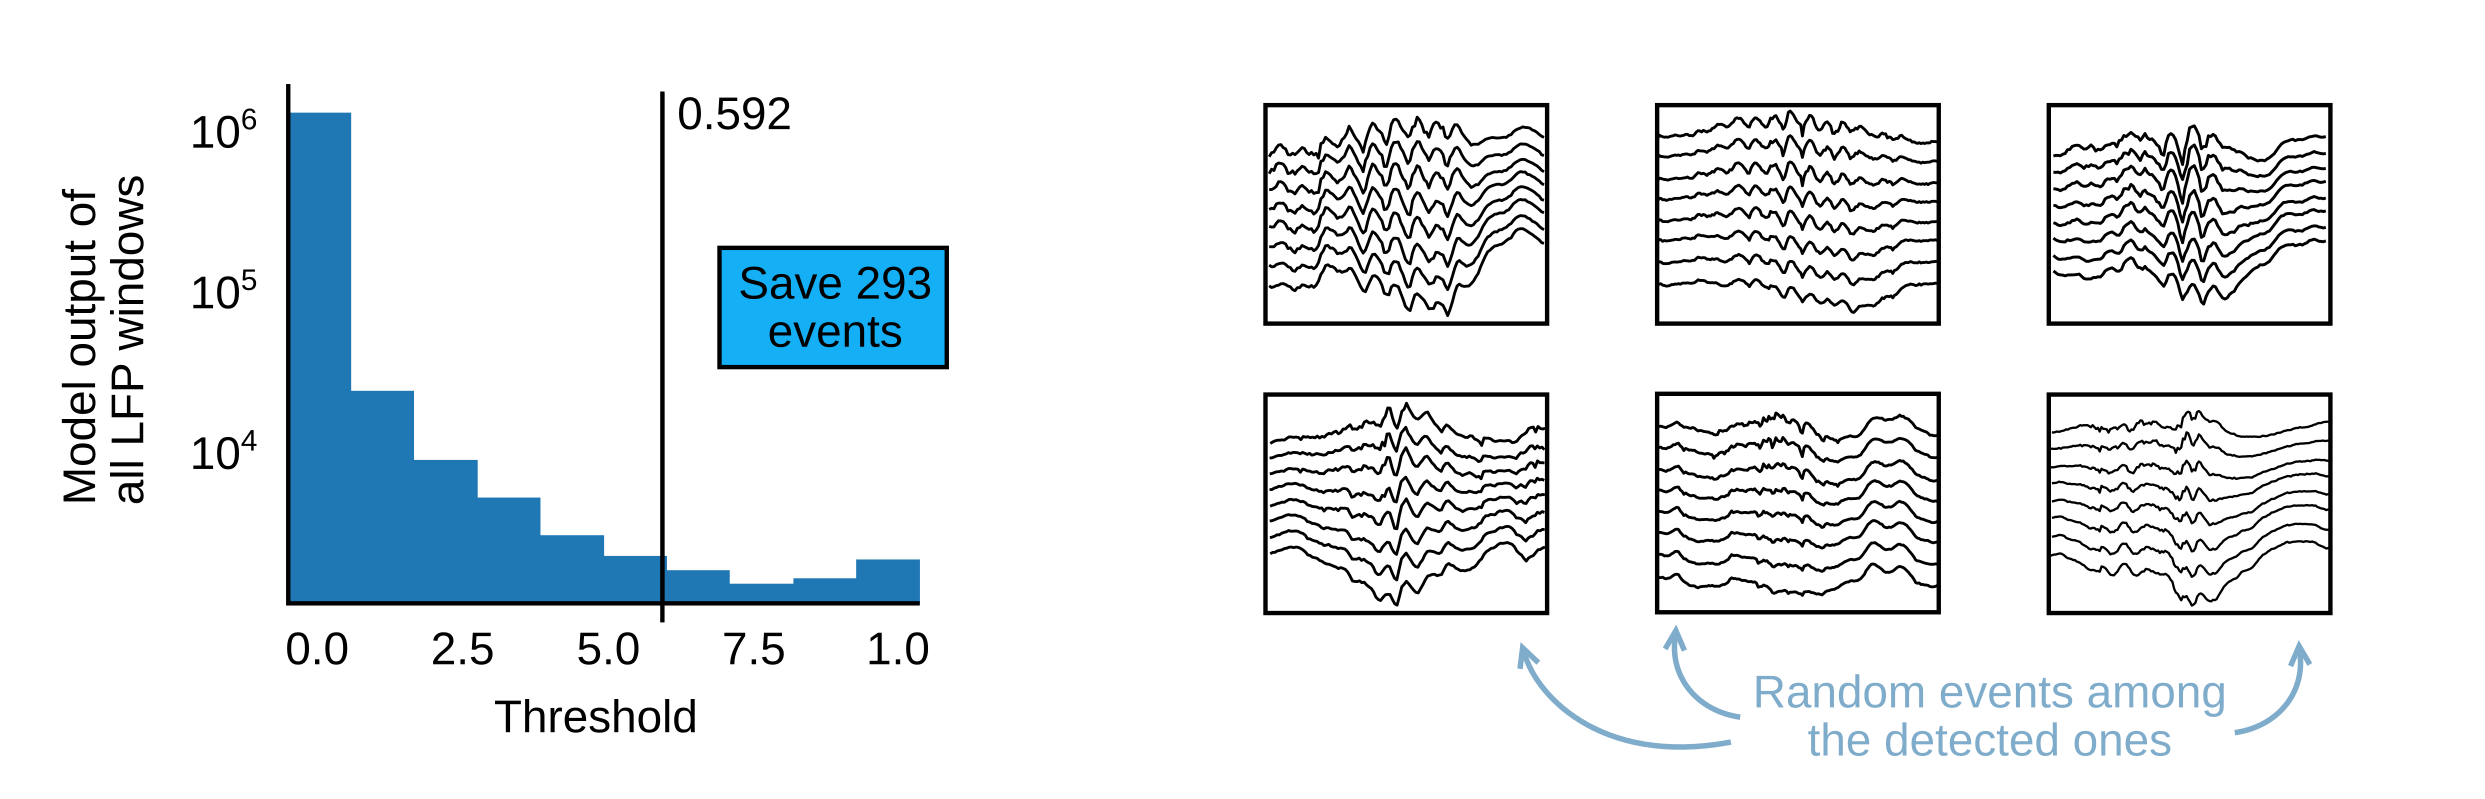
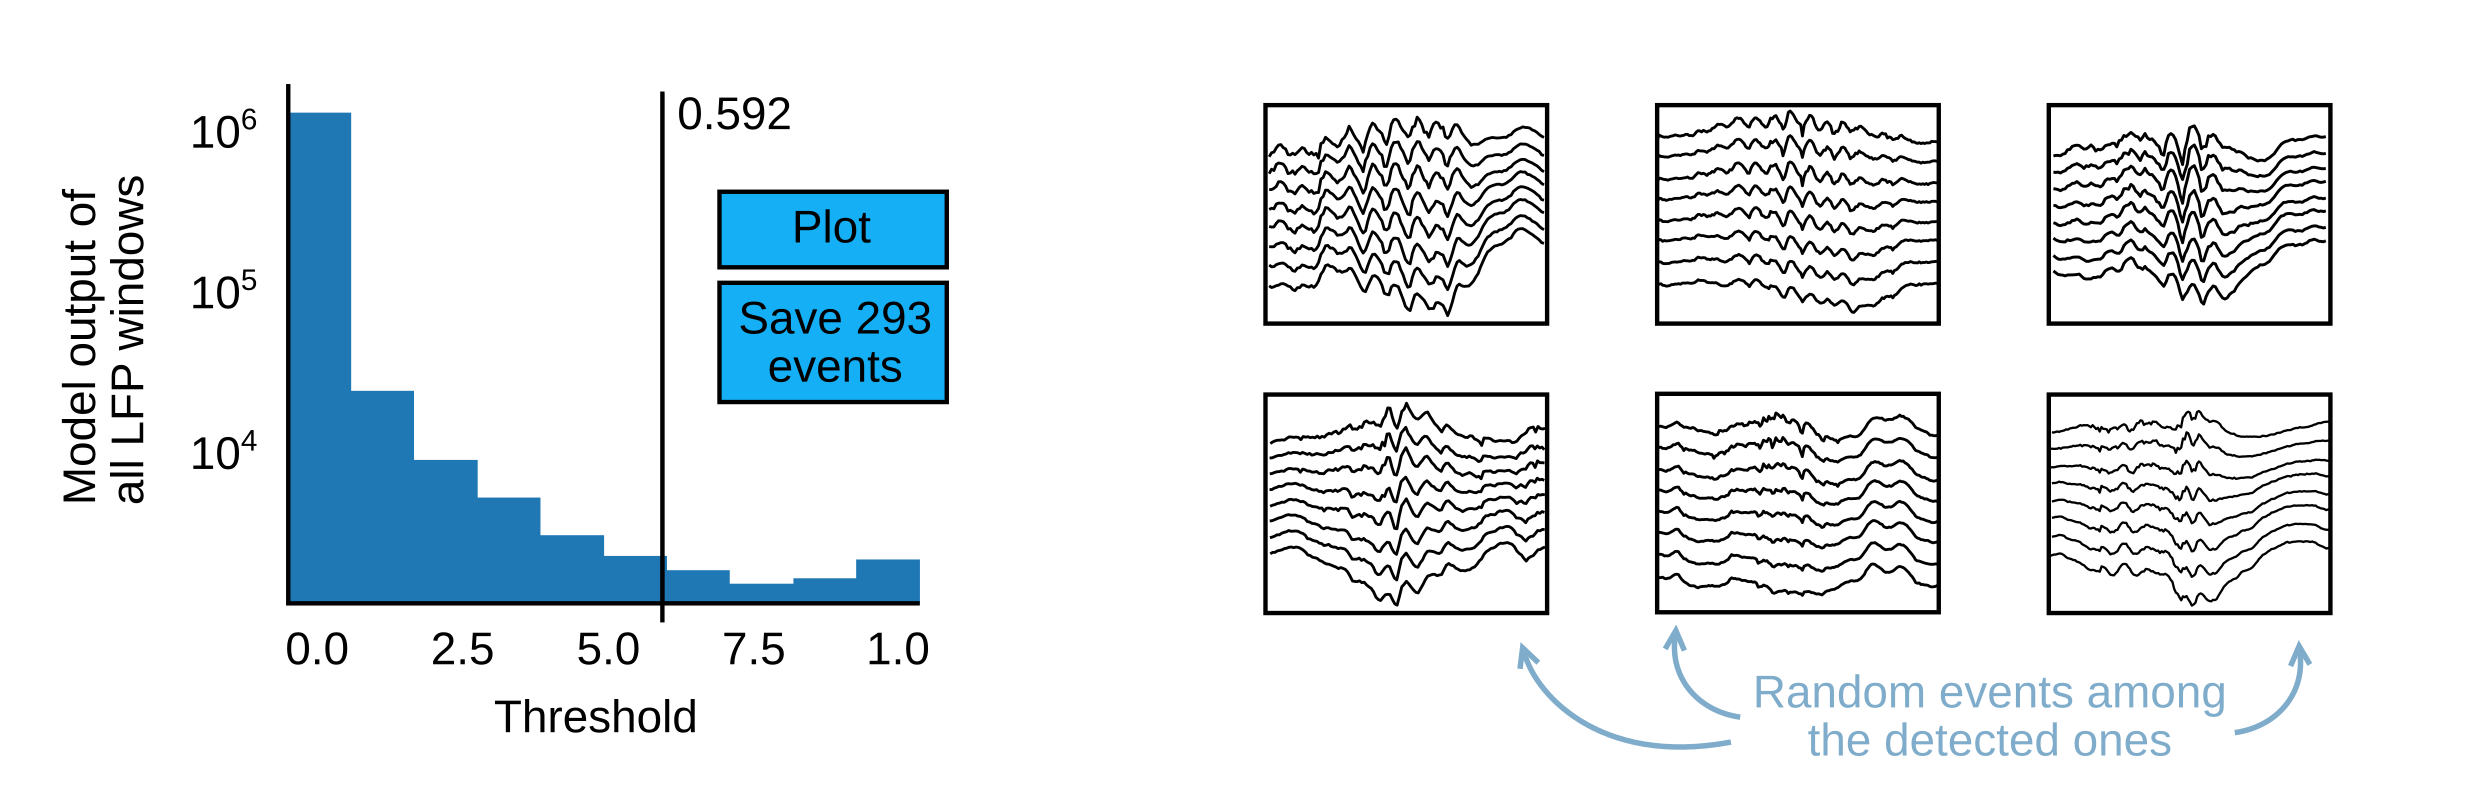
Update README

Changed region(s): [[0.2789, 0.2103, 0.4028, 0.5106]]

diff --git a/README.md b/README.md
@@ -79,14 +79,14 @@ The `rippl_AI.predict()` input and output variables are:
 	- `model_number`: 
 	- `channels`: Channels to be used for detection (`np.array` or `list`: `1` x `8`). This is the most senstive parameter, because models will be looking for specific spatial features over all channels. The two main remarks are:
 		* All models have been trained to look at features in the pyramidal layer (SP), so for them to work at their maximum potential, the selected channels would ideally be centered in the SP, with a postive deflection on the first channels (upper channels) and a negative deflection on the last channels (lower channels). The image above can be used as a visual reference of how to choose channels.
-		* For all combinations of `architectures` and `model_numbers`, `channels` **has to be of size 8**. There is only one exception, for `architecture = 2D-CNN` with `models = {3, 4, 5}`, that needs to have **3 channels**. If you are using a high-density probe, then we recommend to use equi-distant channels from the beginning to the end of the SP. For example, for Neuropixels in mice, a good set of channels would be `pyr_channel` + [-8,-6,-4,-2,0,2,4,6]. However, for linear probes, there are not enough density to cover the SP with 8 channels. For that, interpolations can be made without compromising performance. New artificial interpolated channels will be add to the LFP wherever there is a `-1` in `channels`. For example, if `pyr_channel=11` in your linear probe, so 10 is in _stratum oriens_ and 12 in _stratum radiatum_, then we could define `channels=[10,-1,-1,11,-1,-1,-1,12]`, so that the 2nd and 3rd channels will be an interpolation of SO and SP channels, and 5th to 7th an interpolation of 
-		 See `aux.interpolate_channels` for more details.
-
+		* For all combinations of `architectures` and `model_numbers`, `channels` **has to be of size 8**. There is only one exception, for `architecture = 2D-CNN` with `models = {3, 4, 5}`, that needs to have **3 channels**. 
+		* If you are using a high-density probe, then we recommend to use equi-distant channels from the beginning to the end of the SP. For example, for Neuropixels in mice, a good set of channels would be `pyr_channel` + [-8,-6,-4,-2,0,2,4,6]. 
+		* In the case of linear probes or tetrodes, there are not enough density to cover the SP with 8 channels. For that, interpolation or recorded channels can be done without compromising performance. New artificial interpolated channels will be add to the LFP wherever there is a `-1` in `channels`. For example, if `pyr_channel=11` in your linear probe, so that 10 is in _stratum oriens_ and 12 in _stratum radiatum_, then we could define `channels=[10,-1,-1,11,-1,-1,-1,12]`, where 2nd and 3rd channels will be an interpolation of SO and SP channels, and 5th to 7th an interpolation of SP and SR channels. For tetrodes, organising channels according to their spatial profile is very convenient to assure best performance. These interpolations are done using the function `aux.interpolate_channels()`.
 		* Several examples of all these usages can be found in the [examples_detection/](https://github.com/PridaLab/rippl-AI/blob/main/examples_detection/) folder.
 
 * Output:
-	- `SWR_prob`: 
-	- `LFP_norm`: 
+	- `SWR_prob`: model output for every sample of the LFP (`np.array`: `n_samples` x 1). It can be interpreted as the confidence or probability of a SWR event, so values close to 0 mean that the `model` is certain that there are not SWRs, and values close to 1 that the model is very sure that there is a SWR hapenning.
+	- `LFP_norm`: LFP data used as an input to the model (`np.array`: `n_samples` x `len(channels)`). It is undersampled to 1250Hz, z-scored, and transformed to used the channels specified in `channels`.
 
 
 
@@ -96,22 +96,29 @@ The python function `get_intervals()` of the `rippl_AI` module takes the output 
 
 ![Detection method](https://github.com/PridaLab/rippl-AI/blob/main/figures/detection-method.png)
 
-* **Setting the threshold**
+* Mandatory inputs: 
+	- `SWR_prob`: output of `rippl_AI.predict()`. If this is the only input, the function will display a histogram of all SWR probability values (i.e. `n_samples`), and a draggable threshold to set a threshold based on the values of this particular session. When 'Done' button is pressed, the GUI takes the value of the draggable as the threshold, and computes the beginning and ends of the events.
 
-	- `get_intervals(SWR_prob)`: displays a histogram of all SWR probability values, and a draggable threshold to set a threshold based on the values of this particular session. When 'Done' button is pressed, the GUI takes the value of the draggable as the threshold.
+* Optional inputs - **Setting the threshold**
+	Depending on the inputs, different possibilities arise:
+    - `threshold`: Threshold of predictions (`float`)
+    - `LFP_norm`: Normalized input signal of the model (`np.array`: `n_samples` x `n_channels`). It is recommended to use `LFP_norm`.
+    - `file_path`: Absolute path of the folder where the .txt with the predictions will be generated (`string`). Leave empty if you don't want to generate the file. 
+    - `win_size`: Length of the displayed ripples in miliseconds (`integer`). By default 100 ms.
+    - `sf`: Sampling frequency (Hz) of `LFP_norm` (`integer`). By default 1250 Hz (i.e., sampling frequency of `LFP_norm`).
 
-	- `get_intervals(SWR_prob, LFP=LFP, sf=sf, win_size=win_size)`: if `LFP` is also added as an input, then the GUI adds up to 50 examples of SWR detections. If the 'Update' button is pressed, another 50 random detections are shown. When 'Done' button is pressed, the GUI takes the value of the draggable as the threshold. Sampling frequency `sf` (in Hz) and window size `win_size` (in seconds) can be used to set the window length of the displayed examples. It automatically discards false positives due to drifts, but if you want to set it off, you can set `discard_drift` to `false`. By default, it discards noises whose mean LFP is above `std_discard` times the standard deviation, which by default is 1SD. This parameter can also be changed. ![Detection method](https://github.com/PridaLab/rippl-AI/blob/main/figures/threshold-selection.png)
+    There are4 possible use cases, depending on which parameter combination is used when calling the function.
+    - (`SWR_prob`): a histogram of the output is displayed, you drag a vertical bar to selecct your `threshold`
+    - (`SWR_prob`,`threshold`): no GUI is displayed, the predictions are gererated automatically
+    - (`SWR_prob`,`LFP_norm`): some examples of detected events are displayed next to the histogram
+    - (`SWR_prob`,`LFP_norm`,`threshold`): same case as 3, but the initial location of the bar is `threshold`
 
+    Two usage examples:
+	- `get_intervals(SWR_prob, LFP_norm=LFP_norm, sf=sf, win_size=win_size)`: as `LFP_norm` is also added as an input, then the GUI adds up to 50 examples of SWR detections. If the 'Update' button is pressed, another 50 random detections are shown. When 'Save' button is pressed, the GUI takes the value of the draggable as the threshold. Sampling frequency `sf` (in Hz) and window size `win_size` (in milliseconds) can be used to set the window length of the displayed examples. It automatically discards false positives due to drifts, but if you want to set it off, you can set `discard_drift` to `false`. By default, it discards noises whose mean LFP is above `std_discard` times the standard deviation, which by default is 1SD. This parameter can also be changed. ![Detection method](https://github.com/PridaLab/rippl-AI/blob/main/figures/threshold-selection.png)
 	- `get_intervals(SWR_prob, 'threshold', threshold)`: if a threshold is given, then it takes that threshold without displaying any GUI.
 
-
-* Additional optional inputs are: `handle_overlap` and `verbose`. In order to handle prediction of overlapping windows, use `handle_overlap` to choose to do the 'mean' (by default) or 'max'. `verbose` prints the description of internal processes (false by default).
-
-* **Getting the intervals**
-	Once the threshold is set, it automatically finds the intervals where `SWR_prob` is over that threshold. The output of `get_intervals()` is a `n_ripples` x 2 array of beginnings and ends. If `sf` has been given, the output is in seconds; if it's not given, then the output is in timestamps.
-
-
-
+* Outputs:
+	- `predictions`: Returns the time (in seconds) of the begining and end of each vents. (`n_events` x 2)
 
 
 
